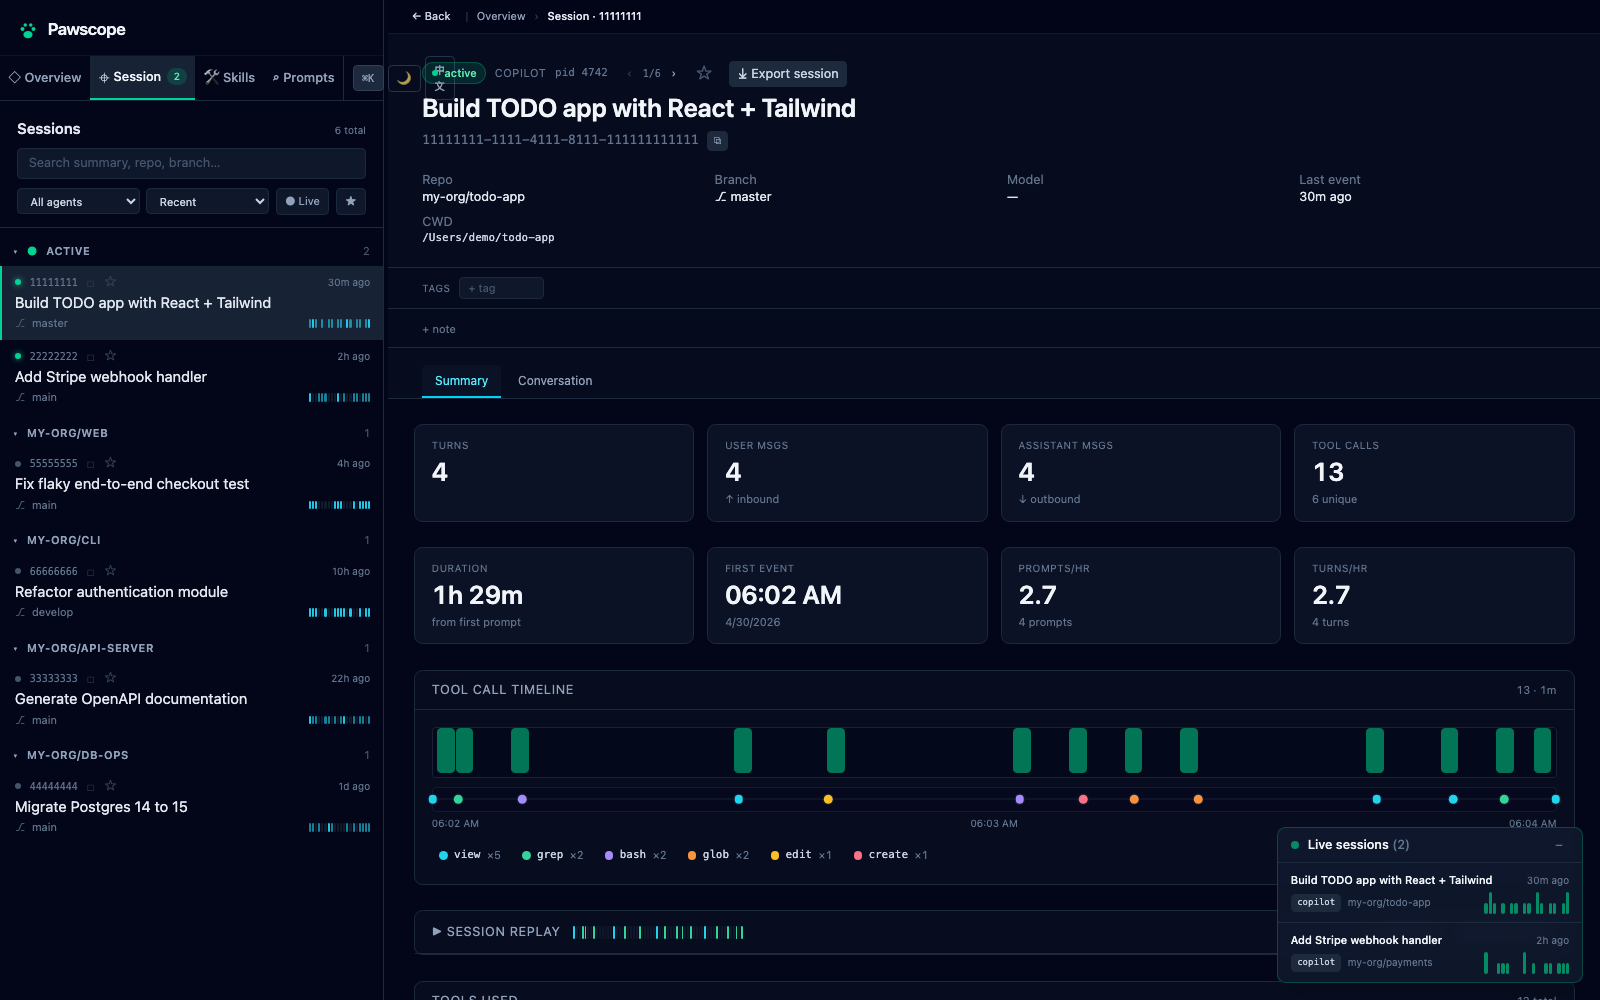
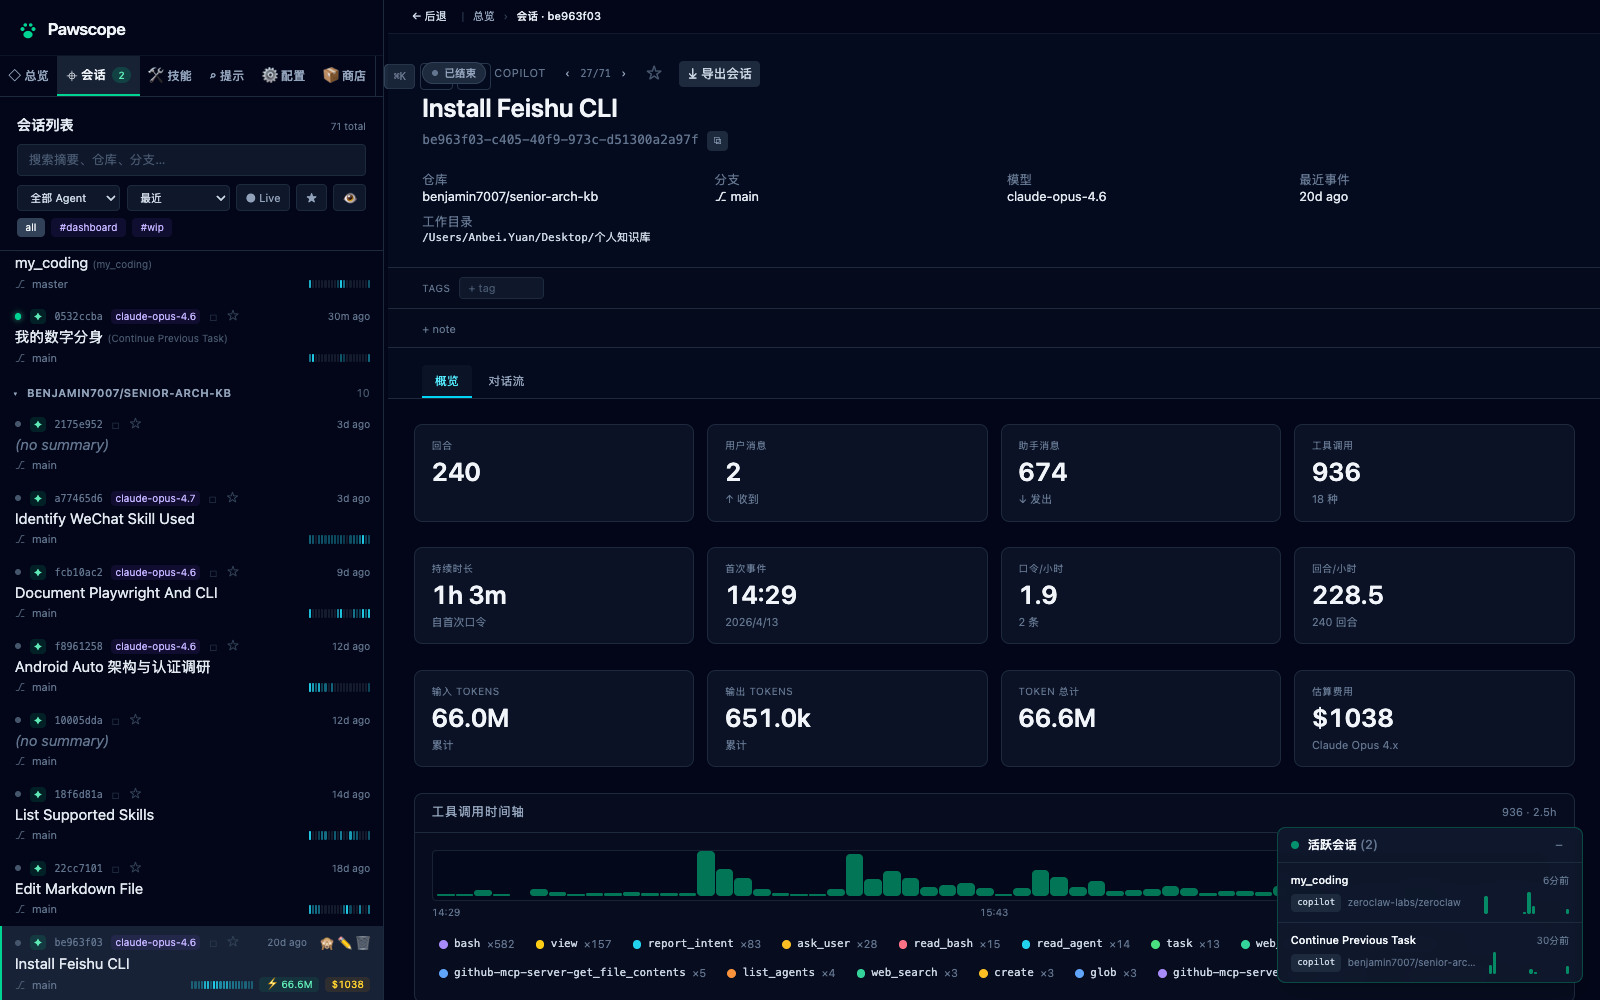
docs: refresh screenshots and add Config + Store pages
- Update all 5 existing screenshots with latest v1.3 UI
- Add 06-config.png (Config page with token trends)
- Add 07-store.png (Skill Store with categories)
- Update Tour section in both READMEs with new screenshots

diff --git a/README.md b/README.md
@@ -123,9 +123,17 @@ Hide, delete (move to trash), rename, star, tag sessions. Compare 2–5 sessions
 <td align="center"><sub><b>Skills</b> — local skills grouped by category, with a usage donut</sub></td>
 <td align="center"><sub><b>Prompts</b> — full-text search across all sessions, optional clustering</sub></td>
 </tr>
+<tr>
+<td width="50%"><a href="./docs/screenshots/06-config.png"><img src="./docs/screenshots/06-config.png" alt="Config page"/></a></td>
+<td width="50%"><a href="./docs/screenshots/07-store.png"><img src="./docs/screenshots/07-store.png" alt="Skill Store"/></a></td>
+</tr>
+<tr>
+<td align="center"><sub><b>Config</b> — persona, agents, installed skills, 30-day token trend</sub></td>
+<td align="center"><sub><b>Skill Store</b> — 328+ community skills, 13 categories, project/global install</sub></td>
+</tr>
 </table>
 
-> All screenshots use the synthetic demo dataset from `scripts/gen-demo-home.py` — no real session data is ever bundled with the README.
+> Screenshots taken from a live Pawscope instance. No synthetic data — what you see is what you get.
 
 ---
 
